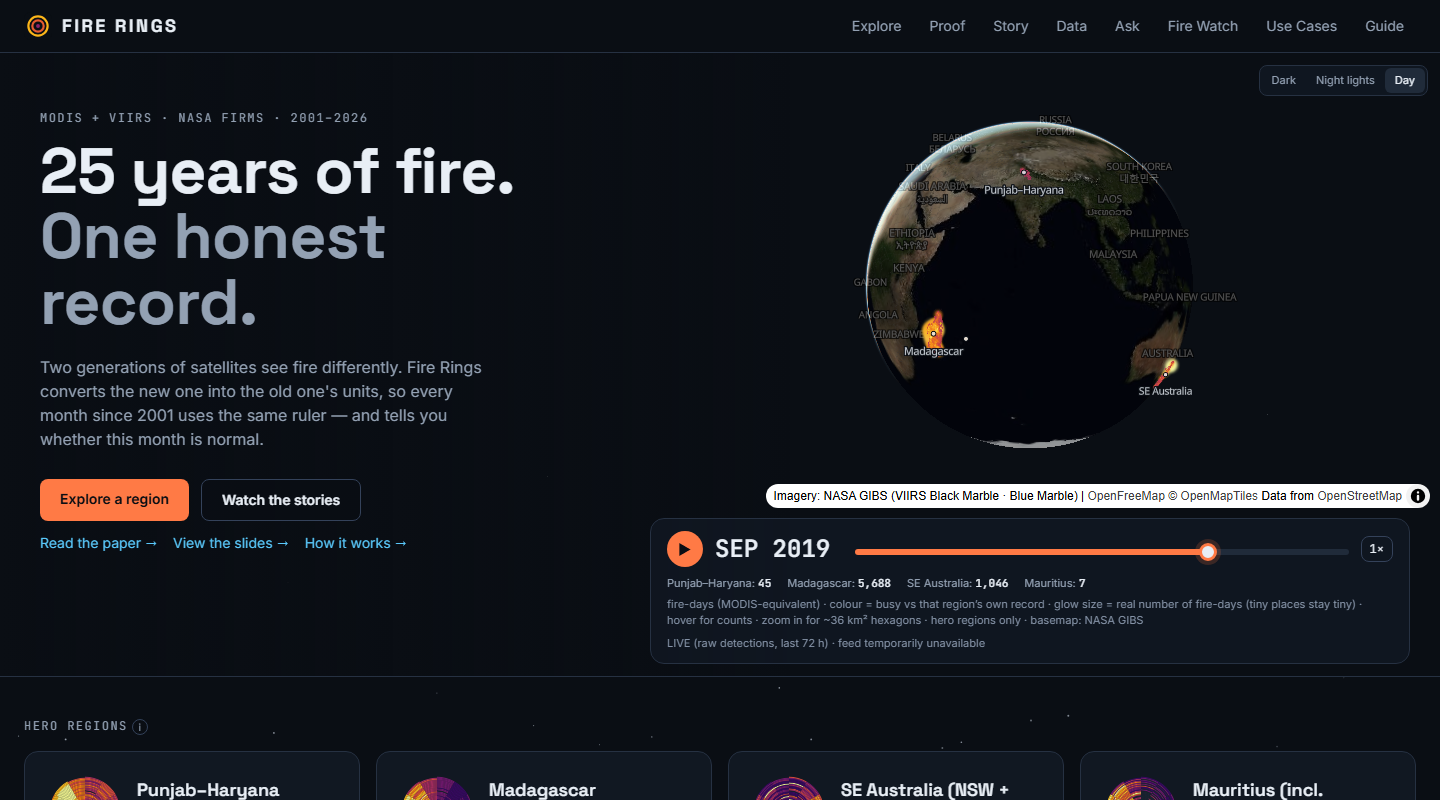
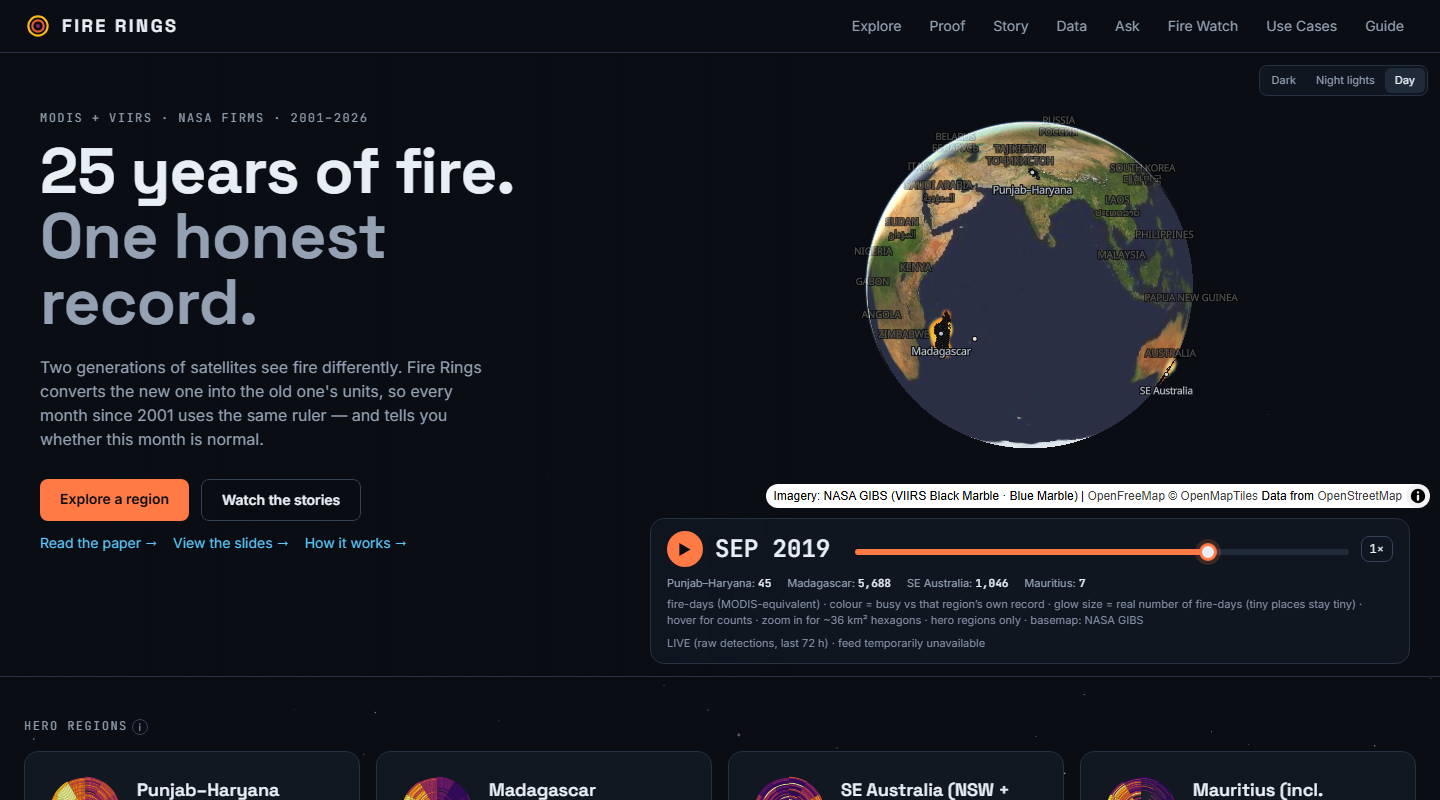
fix(#89): globe Day mode reads as a daytime Earth — Blue Marble at up to 95% brightness with the near-black source oceans lifted and saturation added (blue oceans, green/brown land); stronger fire glow/fill in Day only; Night lights grey, Dark default unchanged; e2e: Day mean brightness 63 vs Dark 2

Changed region(s): [[0.5938, 0.125, 0.8438, 0.5625]]

diff --git a/web/src/components/GlobeTimelapse.tsx b/web/src/components/GlobeTimelapse.tsx
@@ -159,8 +159,8 @@ export default function GlobeTimelapse({ docs, live }: Props) {
       // NASA GIBS rasters above the style's land/water fills, below borders, labels and the fire layers
       const firstLine = mp.getStyle().layers.find((l) => l.type === 'line' || l.type === 'symbol')?.id
       for (const k of ['night', 'day'] as const) {
-        // night lights in grey so city lights never look like fire; day imagery dimmed so the hexagons keep contrast
-        const paint = { ...(k === 'night' ? { 'raster-saturation': -1, 'raster-brightness-max': 0.7, 'raster-contrast': 0.1 } : { 'raster-brightness-max': 0.62, 'raster-saturation': -0.25 }), 'raster-fade-duration': 300 }
+        // night lights in grey so city lights never look like fire; #89: Blue Marble oceans are near-black navy (2,5,20) in the source, so Day lifts the darks a little and adds saturation: oceans read blue, land green/brown
+        const paint = { ...(k === 'night' ? { 'raster-saturation': -1, 'raster-brightness-max': 0.7, 'raster-contrast': 0.1 } : { 'raster-brightness-min': 0.18, 'raster-brightness-max': 0.95, 'raster-saturation': 0.45 }), 'raster-fade-duration': 300 }
         // local z0–3 (over-zoomed underneath at higher zoom, so a GIBS tile still loading never shows as a grey square)
         mp.addSource(`gibs-${k}-local`, { type: 'raster', tiles: [LOCAL[k]], tileSize: 256, maxzoom: LOCAL_MAXZ, attribution: 'Imagery: NASA GIBS (VIIRS Black Marble · Blue Marble)' })
         mp.addLayer({ id: `gibs-${k}-local`, type: 'raster', source: `gibs-${k}-local`, layout: { visibility: 'none' }, paint }, firstLine)
@@ -236,6 +236,10 @@ export default function GlobeTimelapse({ docs, live }: Props) {
     for (const id of ['hex-fill', 'hex6-fill']) if (mp.getLayer(id)) {
       mp.setPaintProperty(id, 'fill-outline-color', gstyle === 'day' ? '#0A0E14' : 'rgba(0,0,0,0)')
     }
+    // #89: on the bright Day imagery the fire glow is a little stronger so hexagons stay clearly visible
+    if (mp.getLayer('hex-glow')) mp.setPaintProperty('hex-glow', 'circle-opacity', ['*', gstyle === 'day' ? 1 : 0.75, ['get', 'a']])
+    if (mp.getLayer('small-dot')) mp.setPaintProperty('small-dot', 'circle-opacity', gstyle === 'day' ? 1 : 0.85)
+    for (const id of ['hex-fill', 'hex6-fill']) if (mp.getLayer(id)) mp.setPaintProperty(id, 'fill-opacity', ['interpolate', ['linear'], ['get', 't'], 0, gstyle === 'day' ? 0.8 : 0.6, 1, gstyle === 'day' ? 1 : 0.95])
     try { localStorage.setItem('fr.globeStyle', gstyle) } catch { /* private mode */ }
   }, [ready, gstyle])
 
